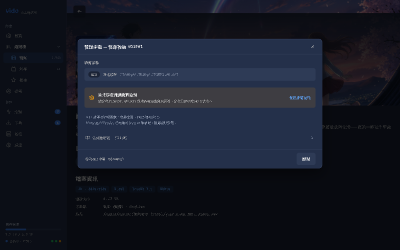
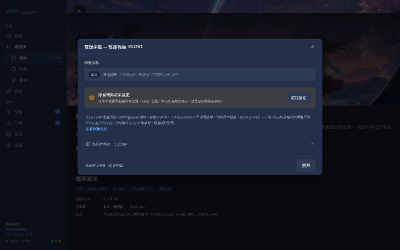
feat(sub-2-2c): F5 ASR 警告面板改版、F1 條件文案註記、J2 untranslated 列（設計 story） (#204)
* feat: update UX design — F5 ASR 警告面板改版、F1 條件文案註記、J2 untranslated 列

- F5-D-v2：警告面板標題/內文改為 ASR 金鑰導向文案，新增「前往設定」深色次要按鈕，「查看部署說明」連結移至 design-notes；M1 註記改為 M1.5（/settings/keys + WhisperClient 重啟語意）
- F1-D-v2：sec-generate 與 row-glossary 之間插入 sub-2-2c 條件文案規格註記區塊（助語/完成句依狀態切換，CTA 永遠可按）
- J2-D：規格表新增 row-untranslated（未翻譯 pill + CircleDashed），圖示語法補 CircleDashed 家族說明，約束框補兩行 untranslated 寫入/復原與罕見情境註記

* docs(sub-2-2c): 收尾 —— MCP review PASS、定稿字串表落檔、兩筆 lane ③ 建檔

- Sally MCP review:F5/F1/J2 三處文案逐字吻合、J2 新列五欄與 row-skipped
  逐欄 x 對齊、零重疊;KGtqa 句中插入的 deviation 追認(優於字面指示)
- 定稿字串表寫入 Completion Notes(spec PNG ≤400px,表為權威交付)
- CircleDashed 批准入 J2-2 圖示語法;verdict-outranks 取捨以註記承認
- 建檔:backlog-f5-cta-code-strings(F5 程式碼文案 + β Task 4 的降級 CTA
  + 503 英文訊息 Rule 3 缺口,同一 handler 面)、
  backlog-asr-runtime-key-resolution(WhisperClient boot-built,main.go:505
  —— Claude 已修、TMDb 已檔、ASR 補上第三筆)
- story → done;inline-agent 協作模式(Sally 出提示詞 → Alexyu 執行 →
  Sally review)記錄為 .pen 工作的往後模式

Claude-Session: https://claude.ai/code/session_01JZvKuQ59Rc63ppuE9vq3US

---------

diff --git a/_bmad-output/implementation-artifacts/sub-2-2c-f5-asr-copy-design.md b/_bmad-output/implementation-artifacts/sub-2-2c-f5-asr-copy-design.md
@@ -1,6 +1,6 @@
 # Story sub-2.2c: F5 panel purified to ASR semantics + CTA degraded-state copy + j2 badge-table 10th row (design)
 
-Status: ready-for-dev
+Status: done
 
 **Epic:** `epic-subtitle-pipeline-m1-5` (M1.5 follow-up) · **Risk: 🟢 UX/DESIGN-ONLY (Sally ux-designer, NOT dev)** · zero code
 **Source:** party-mode ruling 2026-08-05 (Sally 主裁) · promotes `backlog-f5-asr-panel-copy-design` · the 1-7a model: design story first, implementation trails
@@ -68,10 +68,10 @@ so that an FFmpeg/ASR gap, a translation-key gap, and a finished-but-untranslate
 
 ## Tasks / Subtasks
 
-- [ ] **Task 1 — F5 purify (AC #1):** author strings, decide affordance, edit `f6ZxY`, record ratified table + rationale in Completion Notes.
-- [ ] **Task 2 — F1 CTA state (AC #2):** degraded helper + completion line, edit `r1EY9` (+ mobile if applicable), ratify strings.
-- [ ] **Task 3 — j2 10th row (AC #3):** extend the badge table.
-- [ ] **Task 4 — Export + commit (AC #4):** save-check, export, stage exactly the changed PNGs, commit.
+- [x] **Task 1 — F5 purify (AC #1):** author strings, decide affordance, edit `f6ZxY`, record ratified table + rationale in Completion Notes.
+- [x] **Task 2 — F1 CTA state (AC #2):** degraded helper + completion line, edit `r1EY9` (+ mobile if applicable), ratify strings.
+- [x] **Task 3 — j2 10th row (AC #3):** extend the badge table.
+- [x] **Task 4 — Export + commit (AC #4):** save-check, export, stage exactly the changed PNGs, commit.
 
 ---
 
@@ -104,9 +104,58 @@ so that an FFmpeg/ASR gap, a translation-key gap, and a finished-but-untranslate
 
 ### Agent Model Used
 
+Sally (UX Designer) — Claude Opus 5 (1M context). Executed 2026-08-06 via the **inline-agent collaboration model** (Alexyu ruling this session): Sally authored the ratified strings + three node-anchored prompts → Alexyu ran them through Pencil's Inline AI Agent → Sally reviewed via Pencil MCP (structure + verbatim copy + bounds), Alexyu handled save-verify (AppleScript ⌘S after catching the disk file stale at 8/4 — the `feedback_verify_pen_saved_before_commit` trap), export (147/147), exact-PNG staging (3 only, noise reverted), and the signed commit `8207310`.
+
 ### Debug Log References
 
+- Copy premise verified in code BEFORE authoring: `TranscribeMovie` gates on 503 `TRANSCRIPTION_DISABLED` = `IsAvailable()` = FFmpeg + ASR key (`transcription_service.go:177`) — NOT the translation-key 409. AND the **WhisperClient is boot-built** (`main.go:505` `if cfg.HasOpenAIKey()`), so a UI-saved ASR key needs a RESTART — the F5 body says so; 「立即生效」 would have been a lie (→ Discovery Triage #2).
+- MCP review evidence: F5 panel text verbatim + `btn-goto-settings` present + design-notes order M1.5→FFmpeg→查看部署說明 + zero `ctx.problems`; F1 `design-notes-conditional` block sits between `sec-generate` and `row-glossary` with all 6 lines verbatim; J2 `row-untranslated` five columns x/w EXACTLY match `row-skipped` (0/200/410/660/850), pill 未翻譯, `circle-dashed` icon, constraint-box +2 lines verbatim.
+
 ### Completion Notes List
+
+**🎨 THE RATIFIED STRING TABLE (the dev handoff — spec PNGs export ≤400px, this table is authoritative):**
+
+| Surface | Ratified |
+|---|---|
+| F5 title | 「語音辨識尚未設定」 |
+| F5 body | 「生成字幕需要雲端語音辨識（ASR）金鑰。請至金鑰設定儲存，並重啟伺服器後再試。」 |
+| F5 primary | 前往設定 button → `/settings/keys` (RESTORED — 2-1b shipped the page incl. the 雲端 ASR row; 1-7a's deletion rationale is void) |
+| F5 secondary | 查看部署說明 → moved beside the FFmpeg deployment-fact line |
+| F1 helper (default) | 「抽取內嵌字幕＋AI 翻譯，約需數分鐘」 (unchanged) |
+| F1 helper (degraded) | 「僅能產生英文字幕——尚未設定翻譯金鑰」 + 前往設定 text link → `/settings/keys`; **CTA stays enabled** (degraded ≠ blocked); signal = GET `/settings/keys` `claude.configured` |
+| Completion ×2 | 「字幕已生成完成」 / 「已生成英文字幕；尚未翻譯」 (β's shipped copy ratified as-is) |
+| j2-d 10th row | 未翻譯 · 底 `#2e3b56`/字 `#a0aabe` · EpisodeList **CircleDashed** `--text-muted` |
+
+**Rulings on the three dev-flagged inputs (all closed):**
+
+1. **CircleDashed glyph: RATIFIED.** Fits the J2-2 icon grammar exactly — circled = settled, dashed = incomplete (英文字幕已生成、翻譯未執行). β's provisional pick stands; the KGtqa grammar line now names it.
+2. **untranslated + embedded-繁中 semantics: consistency stands.** Verdict-outranks-tracks is the family rule; the rare case is ACKNOWLEDGED in the constraint box as a deliberate tradeoff, not a defect.
+3. **F5 trigger purity: the panel now names ASR**, never the translation key — the 1-7a copy (wrong capability, wrong endpoint) is fully superseded.
+
+**Inline-agent deviation, reviewed and APPROVED:** the KGtqa addendum was inserted mid-sentence (after CircleSlash, before the closing 「—— 管線對這個檔案已經有答案。」) rather than literally at the end — Alexyu's grammar call, and better than my instruction: the closing clause now covers all four circled glyphs.
+
+**AC #4 export discipline (executed by Alexyu):** disk-stale trap caught (⌘S via AppleScript, verified `M ux-design.pen` + grep before export); 147/147 export; EXACTLY three PNGs staged (`f5-d-v2.png`, `f1-d-v2.png`, `j2-d.png` — F1-M carries no helper-line annotation, desktop annotation notes mobile parity), re-render noise reverted; `SCREENS` dict untouched.
+
+### Discovery Triage
+
+- **Did this story discover any work outside its current scope?** Two lane-③ items, both filed at discovery time (bidirectional):
+  - **③ `backlog-f5-cta-code-strings`** — the CODE half this design story deliberately does not ship: F5 panel strings in `ManageSubtitleDialogV2.tsx` still carry the pre-γ copy; the AC #2 degraded CTA helper (β Task 4's explicit deferral) and the F5 前往設定-button copy alignment now have ratified strings and nothing tracking implementation. One small frontend story/entry.
+  - **③ `backlog-asr-runtime-key-resolution`** — WhisperClient is boot-built from env (`main.go:505`), the exact class 2-1a fixed for Claude and `backlog-tmdb-runtime-key-resolution` tracks for TMDb; OpenAI/ASR had NO tracking entry. A UI-saved ASR key silently does nothing until restart (F5/keys-page copy now says so honestly, but the fix-when-picked-up is a holder or resolver re-point).
+  - Pre-flagged candidate CONFIRMED still open: backend 503 message is English (Rule 3 gap) — folded into `backlog-f5-cta-code-strings` (same handler surface).
+- Reference: `project-context.md` Rule 24.
+
+### File List
+
+- `ux-design.pen` (F5-D-v2 `f6ZxY` · F1-D-v2 `r1EY9` design-notes block · J2-D `FdlJ2` row + grammar + constraints)
+- `_bmad-output/screenshots/flow-f-subtitle-v2/f5-d-v2.png` · `f1-d-v2.png` · `flow-j-specs/j2-d.png`
+- `_bmad-output/implementation-artifacts/sub-2-2c-f5-asr-copy-design.md` (this file)
+- `_bmad-output/implementation-artifacts/sprint-status.yaml`
+
+## Change Log
+
+| Date | Change |
+|---|---|
+| 2026-08-06 | Tasks 1–4 via the inline-agent model (Sally prompts → Alexyu executes → Sally MCP-reviews). F5 purified to ASR semantics with the verified restart truth + 前往設定 restored; F1 conditional-copy spec block (helper ×2, completion ×2, mobile parity note); J2-D 10th row + CircleDashed ratified + 2 constraint notes. KGtqa mid-sentence placement deviation approved. 3 PNGs staged exactly; commit `8207310`. Two lane-③ discoveries filed: `backlog-f5-cta-code-strings`, `backlog-asr-runtime-key-resolution`. Story → done. |
 
 ### Discovery Triage
 
